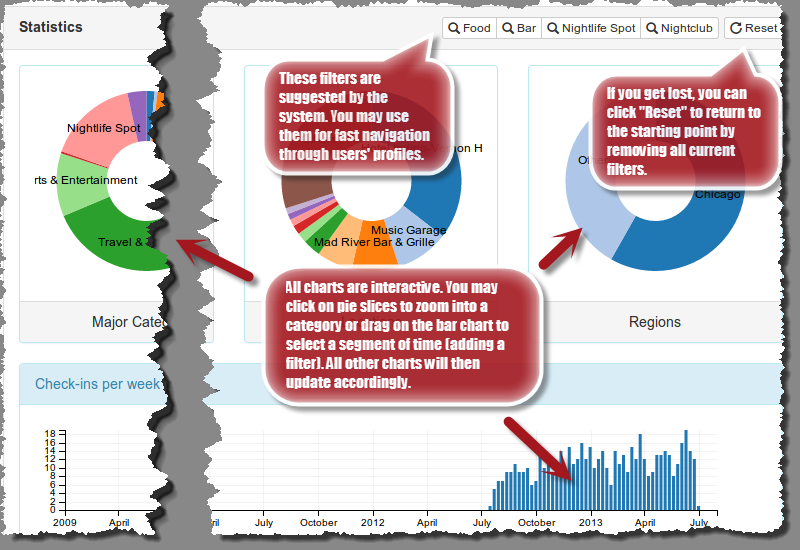
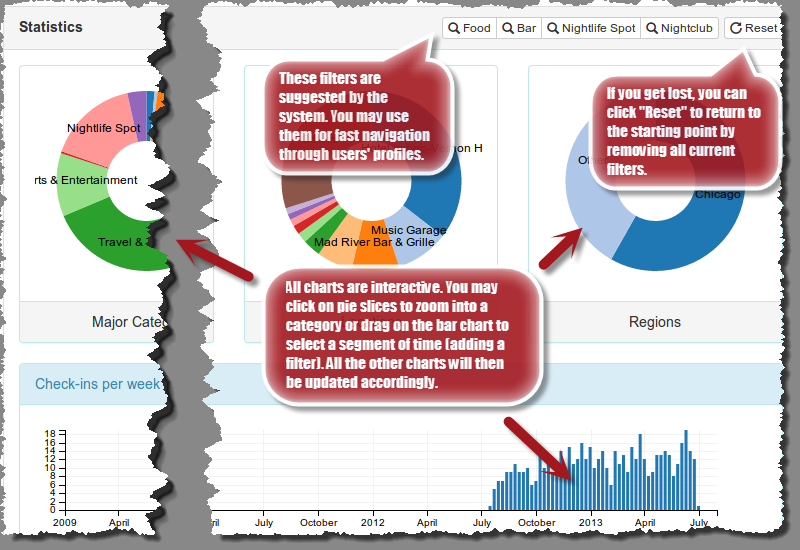
Fix phrasing

Changed region(s): [[0.3438, 0.6491, 0.625, 0.7109]]

diff --git a/apps/profileviewer/templates/expert_view.html b/apps/profileviewer/templates/expert_view.html
@@ -119,19 +119,19 @@
   <div class="panel-body">
     <div class="row">
       <div class="col-sm-3">
-        <div class="panel panel-info" title="This chart shows the number of check-ins at each major category of places.">
+        <div class="panel panel-info" title="This chart shows the number of check-ins at each top-level category of places.">
           <div class="panel-body">
             <div id="chart-zcate-pie" > </div>
           </div>
-          <div class="panel-footer chart-label"> Major Categories </div>
+          <div class="panel-footer chart-label"> Top-level Categories </div>
         </div>
       </div>
       <div class="col-sm-3">
-        <div class="panel panel-info" title="This chart is similar to the one showing major category distribution except that it is for minor categories.">
+        <div class="panel panel-info" title="This chart is similar to the one showing top-level category distribution except that it is for lower-level categories.">
           <div class="panel-body">
             <div id="chart-cate-pie"> </div>
           </div>
-          <div class="panel-footer chart-label"> Minor Categories </div>
+          <div class="panel-footer chart-label"> Lower-level Categories </div>
         </div>
       </div>
       <div class="col-sm-3">

diff --git a/apps/profileviewer/templates/instructions.html b/apps/profileviewer/templates/instructions.html
@@ -86,9 +86,9 @@
                 <div class="container" style="text-align: left">
                   <H1> How </H1>
                   <p>
-                    Since each user has huge a volume of
+                    Since each user has a huge volume of
                     <abbr title="A message or tweet with location information">check-ins</abbr>,
-                    It is not possible to view them all. Thus we provide a comprehensive panel for
+                    it is not possible to view them all. Thus we provide a comprehensive panel for
                     judges to investigate users' expertise. By applying filters, you can zoom into
                     a particular part of dimensions to study their check-in behavior. For example,
                     you may apply a fiter to see only the check-ins at bars.
